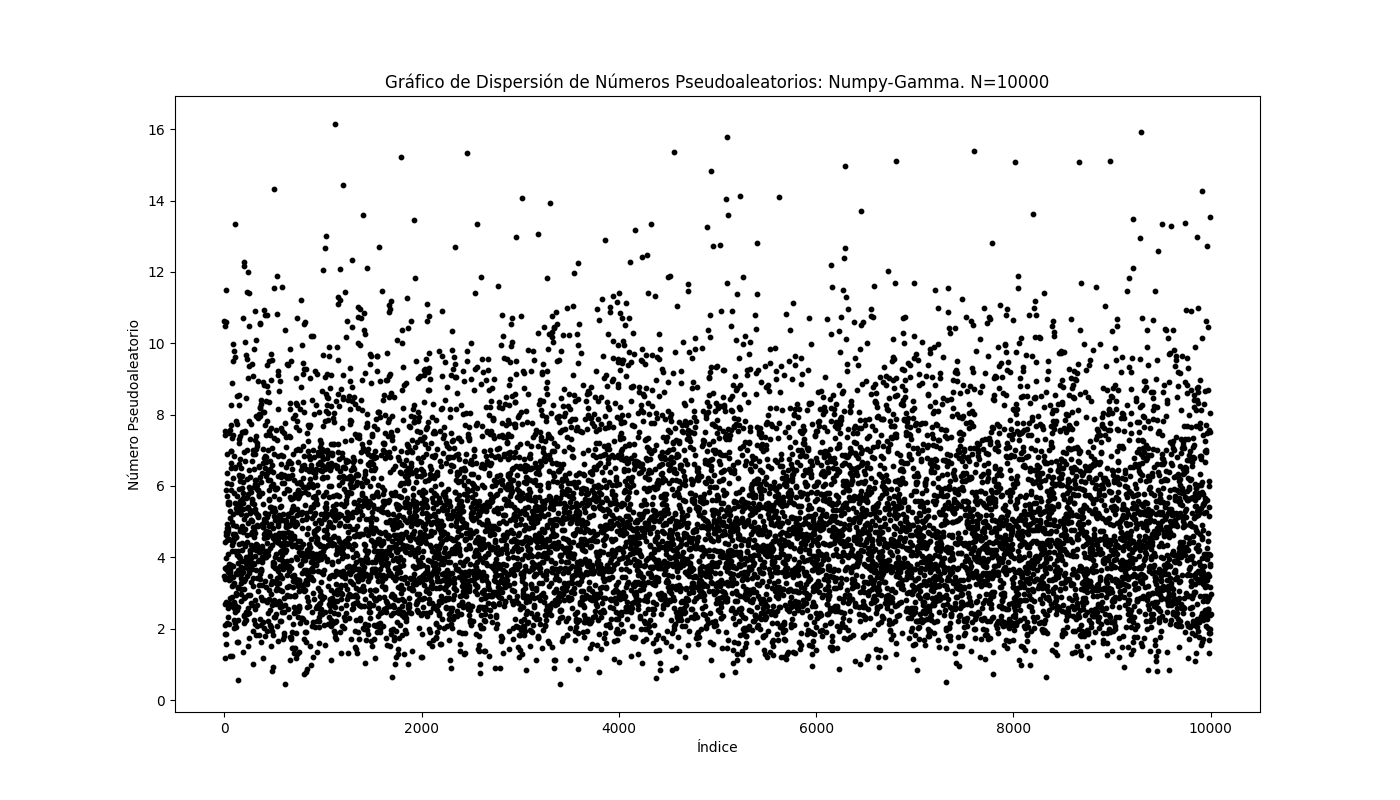
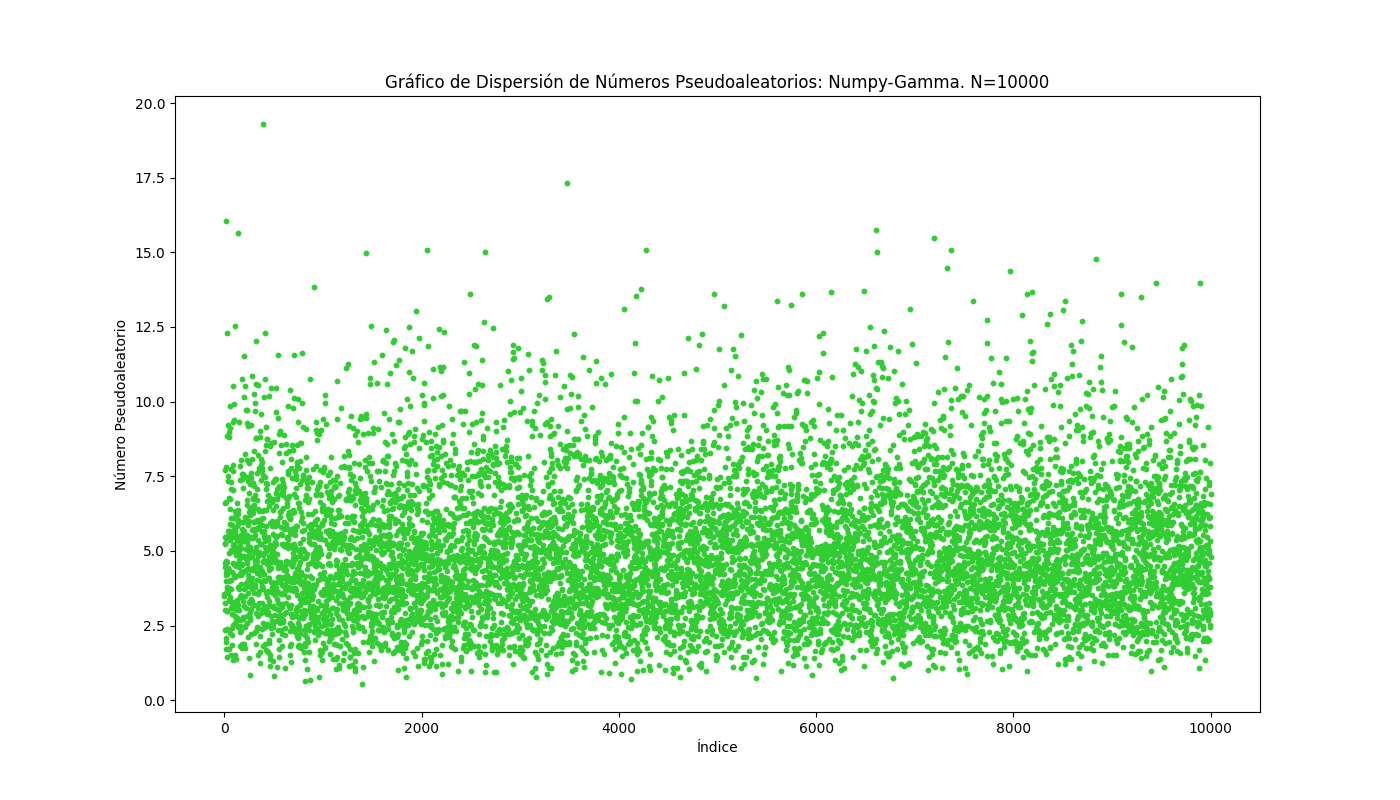
Intento de binomial
graficos mas bonitos y histogramas de comparacion

diff --git a/TP_2.2/gamma_exponencial_binomial.py b/TP_2.2/gamma_exponencial_binomial.py
@@ -1,0 +1,184 @@
+import numpy as np
+import matplotlib.pyplot as plt
+import math
+import os
+import argparse
+import time
+
+parser = argparse.ArgumentParser(description="Simulador de ruleta")
+parser.add_argument("-n", default=10000, type=int, help="Número de pruebas")
+parser.add_argument("-s", default=1000, type=int, help="seed")
+args = parser.parse_args()
+largo_secuencia = args.n
+seed = args.s
+
+if largo_secuencia < 1:
+    print("El número de pruebas debe ser mayor a 0")
+    exit()
+if largo_secuencia <= 5000:
+    size_puntos_graficos = 15
+if largo_secuencia > 5000 and largo_secuencia <= 20000:
+    size_puntos_graficos = 10
+if largo_secuencia > 20000:
+    size_puntos_graficos = 3
+seed = int(time.time()) # Usar el tiempo actual como semilla, las misma para los 2 test
+
+################################RUTAS################################
+# Obtener la ruta completa del directorio actual
+directorio_actual = os.path.dirname(os.path.abspath(__file__))
+ruta_graficas = os.path.join(directorio_actual, 'graficas/')
+if not os.path.exists(ruta_graficas):
+    os.makedirs(ruta_graficas)
+ruta_graficas_numpy = os.path.join(ruta_graficas, 'numpy/')
+if not os.path.exists(ruta_graficas_numpy):
+    os.makedirs(ruta_graficas_numpy)
+
+# Definimos la distribución exponencial
+def dist_exponencial(lambd, largo_secuencia_exponencial):
+    # Generamos la secuencia de números pseudoaleatorios
+    secuencia = np.random.uniform(0, 1, largo_secuencia_exponencial)
+    # Generación de la distribución exponencial con metodo de inversion
+    datos_exponencial = [-math.log(x) / lambd for x in secuencia]
+    return datos_exponencial
+
+def dist_binomial(n, p, size):
+    """
+    Genera números aleatorios de una distribución binomial usando el método de rechazo.
+
+    :param n: Número de ensayos.
+    :param p: Probabilidad de éxito en cada ensayo.
+    :param size: Número de muestras a generar.
+    :return: Un arreglo de números aleatorios con distribución binomial.
+    """
+    def binomial_pmf(k, n, p):
+      """
+      Calcula la PMF de una distribución binomial.
+      """
+      comb = math.comb(n, k)
+      return comb * (p ** k) * ((1 - p) ** (n - k))
+  
+    samples = []
+    max_pmf = binomial_pmf(n // 2, n, p)  # Usar el valor máximo de la PMF para el método de rechazo
+    for _ in range(size):
+      while True:
+        # Generar un candidato k de una distribución uniforme discreta [0, n]
+        k = np.random.randint(0, n + 1)
+        # Generar una muestra uniforme u para la decisión de aceptación
+        u = np.random.uniform(0, max_pmf)
+        # Evaluar la PMF binomial en k
+        pmf_k = binomial_pmf(k, n, p)
+        # Condición de aceptación
+        if u < pmf_k:
+            samples.append(k)
+            break
+    return np.array(samples)
+  
+#generador de numeros con distribucion gamma
+def dist_gamma(shape_param, scale_param, size):
+    """
+    Genera números aleatorios de una distribución Gamma usando el método de aceptación-rechazo.
+
+    :param shape_param: Parámetro de forma (k) de la distribución Gamma.
+    :param scale_param: Parámetro de escala (θ) de la distribución Gamma.
+    :param size: Número de muestras a generar.
+    :return: Un arreglo de números aleatorios con distribución Gamma.
+    """
+    if shape_param < 1:
+        shape_param += 1
+        u = np.random.uniform(0, 1, size)
+        gamma_sample = dist_gamma(shape_param, scale_param, size)
+        return gamma_sample * np.power(u, 1.0 / shape_param)
+
+    d = shape_param - 1/3
+    c = 1 / np.sqrt(9 * d)
+
+    samples = []
+    for _ in range(size):
+        while True:
+            x = np.random.normal(0, 1)
+            v = (1 + c * x) ** 3
+            u = np.random.uniform(0, 1)
+            if u < 1 - 0.0331 * (x ** 4):
+                break
+            if np.log(u) < 0.5 * x ** 2 + d * (1 - v + np.log(v)):
+                break
+        samples.append(d * v)
+
+    return np.array(samples) * scale_param
+   
+
+def graficar_histograma(datos, nombre=""):
+    plt.figure(figsize=(14, 8))
+    # Graficamos la distribución exponencial
+    if "Numpy" in nombre:
+      histograma = os.path.join(ruta_graficas_numpy, f'histograma_{nombre}.png')
+      color = 'limegreen'
+    elif "comparacion" in nombre: color = ['limegreen', 'royalblue']
+    else:
+      color = 'royalblue'
+      histograma = os.path.join(ruta_graficas, f'histograma_{nombre}.png')
+    if "Binomial" in nombre: bins = np.arange(0, 21) - 0.5
+    else: bins = 40
+    plt.hist(datos, bins=bins, edgecolor='black', color=color)
+    plt.title(f'Histograma de Frecuencias: {nombre}. N={largo_secuencia}')
+    plt.xlabel("Valor")
+    plt.ylabel("Frecuencia")
+    if "Numpy" in nombre:
+      histograma = os.path.join(ruta_graficas_numpy, f'histograma_{nombre}.png')
+    else:
+      histograma = os.path.join(ruta_graficas, f'histograma_{nombre}.png')
+    plt.savefig(histograma)
+    plt.close()
+
+def graficar_dispersion(datos, nombre=""):
+    if "Numpy" in nombre:
+      dispersion = os.path.join(ruta_graficas_numpy, f'dispersion_{nombre}.png')
+      color = 'limegreen'
+    else:
+      dispersion = os.path.join(ruta_graficas, f'dispersion_{nombre}.png')
+      color = 'royalblue'
+    plt.figure(figsize=(14, 8))
+    plt.scatter(range(len(datos)), datos, label=nombre, color=color, s=size_puntos_graficos)
+    plt.xlabel('Índice')
+    plt.ylabel('Número Pseudoaleatorio')
+    plt.title(f'Gráfico de Dispersión de Números Pseudoaleatorios: {nombre}. N={largo_secuencia}')
+    plt.savefig(dispersion)
+    plt.close()
+
+def exponencial():
+  sec_e = np.random.exponential(3, largo_secuencia)
+  datos_exponencial = dist_exponencial(1/3, largo_secuencia)
+  # Graficamos la distribución exponencial
+  graficar_histograma(datos_exponencial, "Exponencial")
+  graficar_dispersion(datos_exponencial, "Exponencial")
+  graficar_histograma(sec_e, "Numpy-Exponencial")
+  graficar_dispersion(sec_e, "Numpy-Exponencial")
+  graficar_histograma([sec_e, datos_exponencial], "Exponencial-comparacion")
+
+def gamma():
+  sec_g = np.random.gamma(5, 1, largo_secuencia)
+  datos_gamma = dist_gamma(5,1, largo_secuencia)
+  # Graficamos la distribución gamma
+  graficar_histograma(datos_gamma, "Gamma")
+  graficar_dispersion(datos_gamma, "Gamma")
+  graficar_histograma(sec_g, "Numpy-Gamma")
+  graficar_dispersion(sec_g, "Numpy-Gamma")
+  graficar_histograma([sec_g, datos_gamma], "Gamma-comparacion")
+
+
+def binomial():
+  #ensayos(x) = 10, probabilidad(p) = 0.5, tamaño = 10000
+  sec_b = np.random.binomial(20, 0.1, largo_secuencia)
+  datos_binomial = dist_binomial(20, 0.1, largo_secuencia)
+  graficar_histograma(datos_binomial, "Binomial")
+  graficar_dispersion(datos_binomial, "Binomial")  
+  # Graficamos la distribución binomial
+  graficar_histograma(sec_b, "Numpy-Binomial")
+  graficar_dispersion(sec_b, "Numpy-Binomial")
+  graficar_histograma([sec_b, datos_binomial], "Binomial-comparacion")
+
+
+if __name__ == "__main__":
+  binomial()
+  exponencial()
+  gamma()
